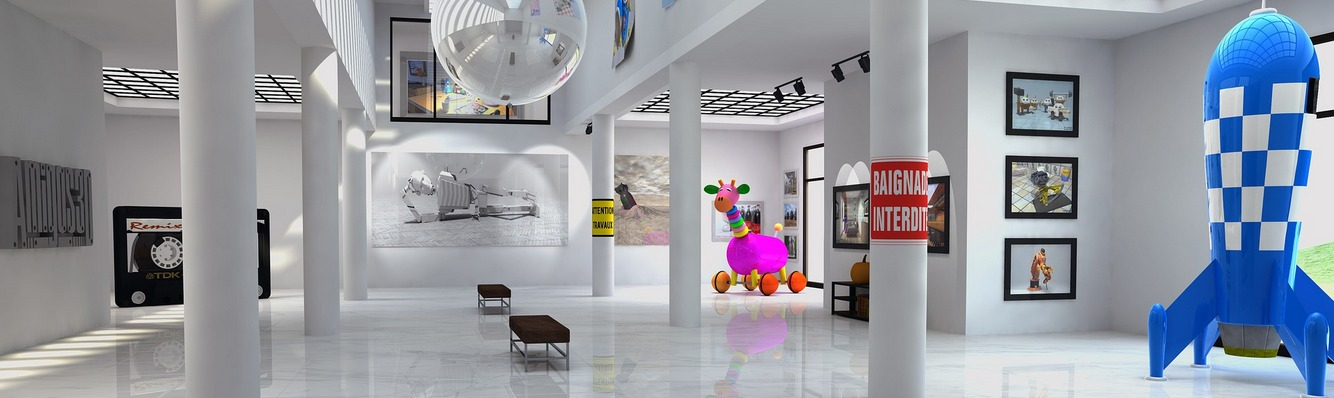
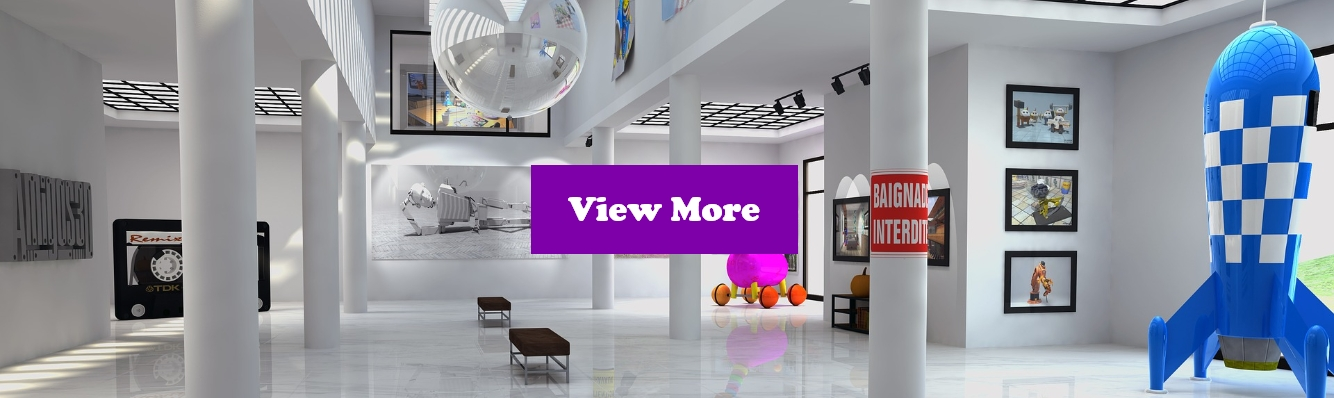
new image

diff --git a/index.html b/index.html
@@ -59,9 +59,9 @@
                 </div>
             </section>
             <h3>Exhibition Spaces</h3>
-                <section class="exhibition-spaces">
-                    <a href="exhibition-spaces">View More</a>
-                </section>
+                <div class="long">
+                    <a href="exhibition-spaces.html"><img src="images/exhibition-spaces.jpg" alt="Exhibition space"></a>
+                </div>
             <h3>News</h3>
             <section class="news">
                 <a href="news.html#news1"><img class="news1" src="images/news1.jpg" alt="Astronaut"></a>

diff --git a/css/styles.css b/css/styles.css
@@ -114,10 +114,6 @@ footer a {
   min-height: 60px;
 }
 
-.exhibition-spaces {
-  background-image: url("exhibition-spaces.jpg");
-}
-
 .button {
   color: white;
   background-color: #7d00a8;
